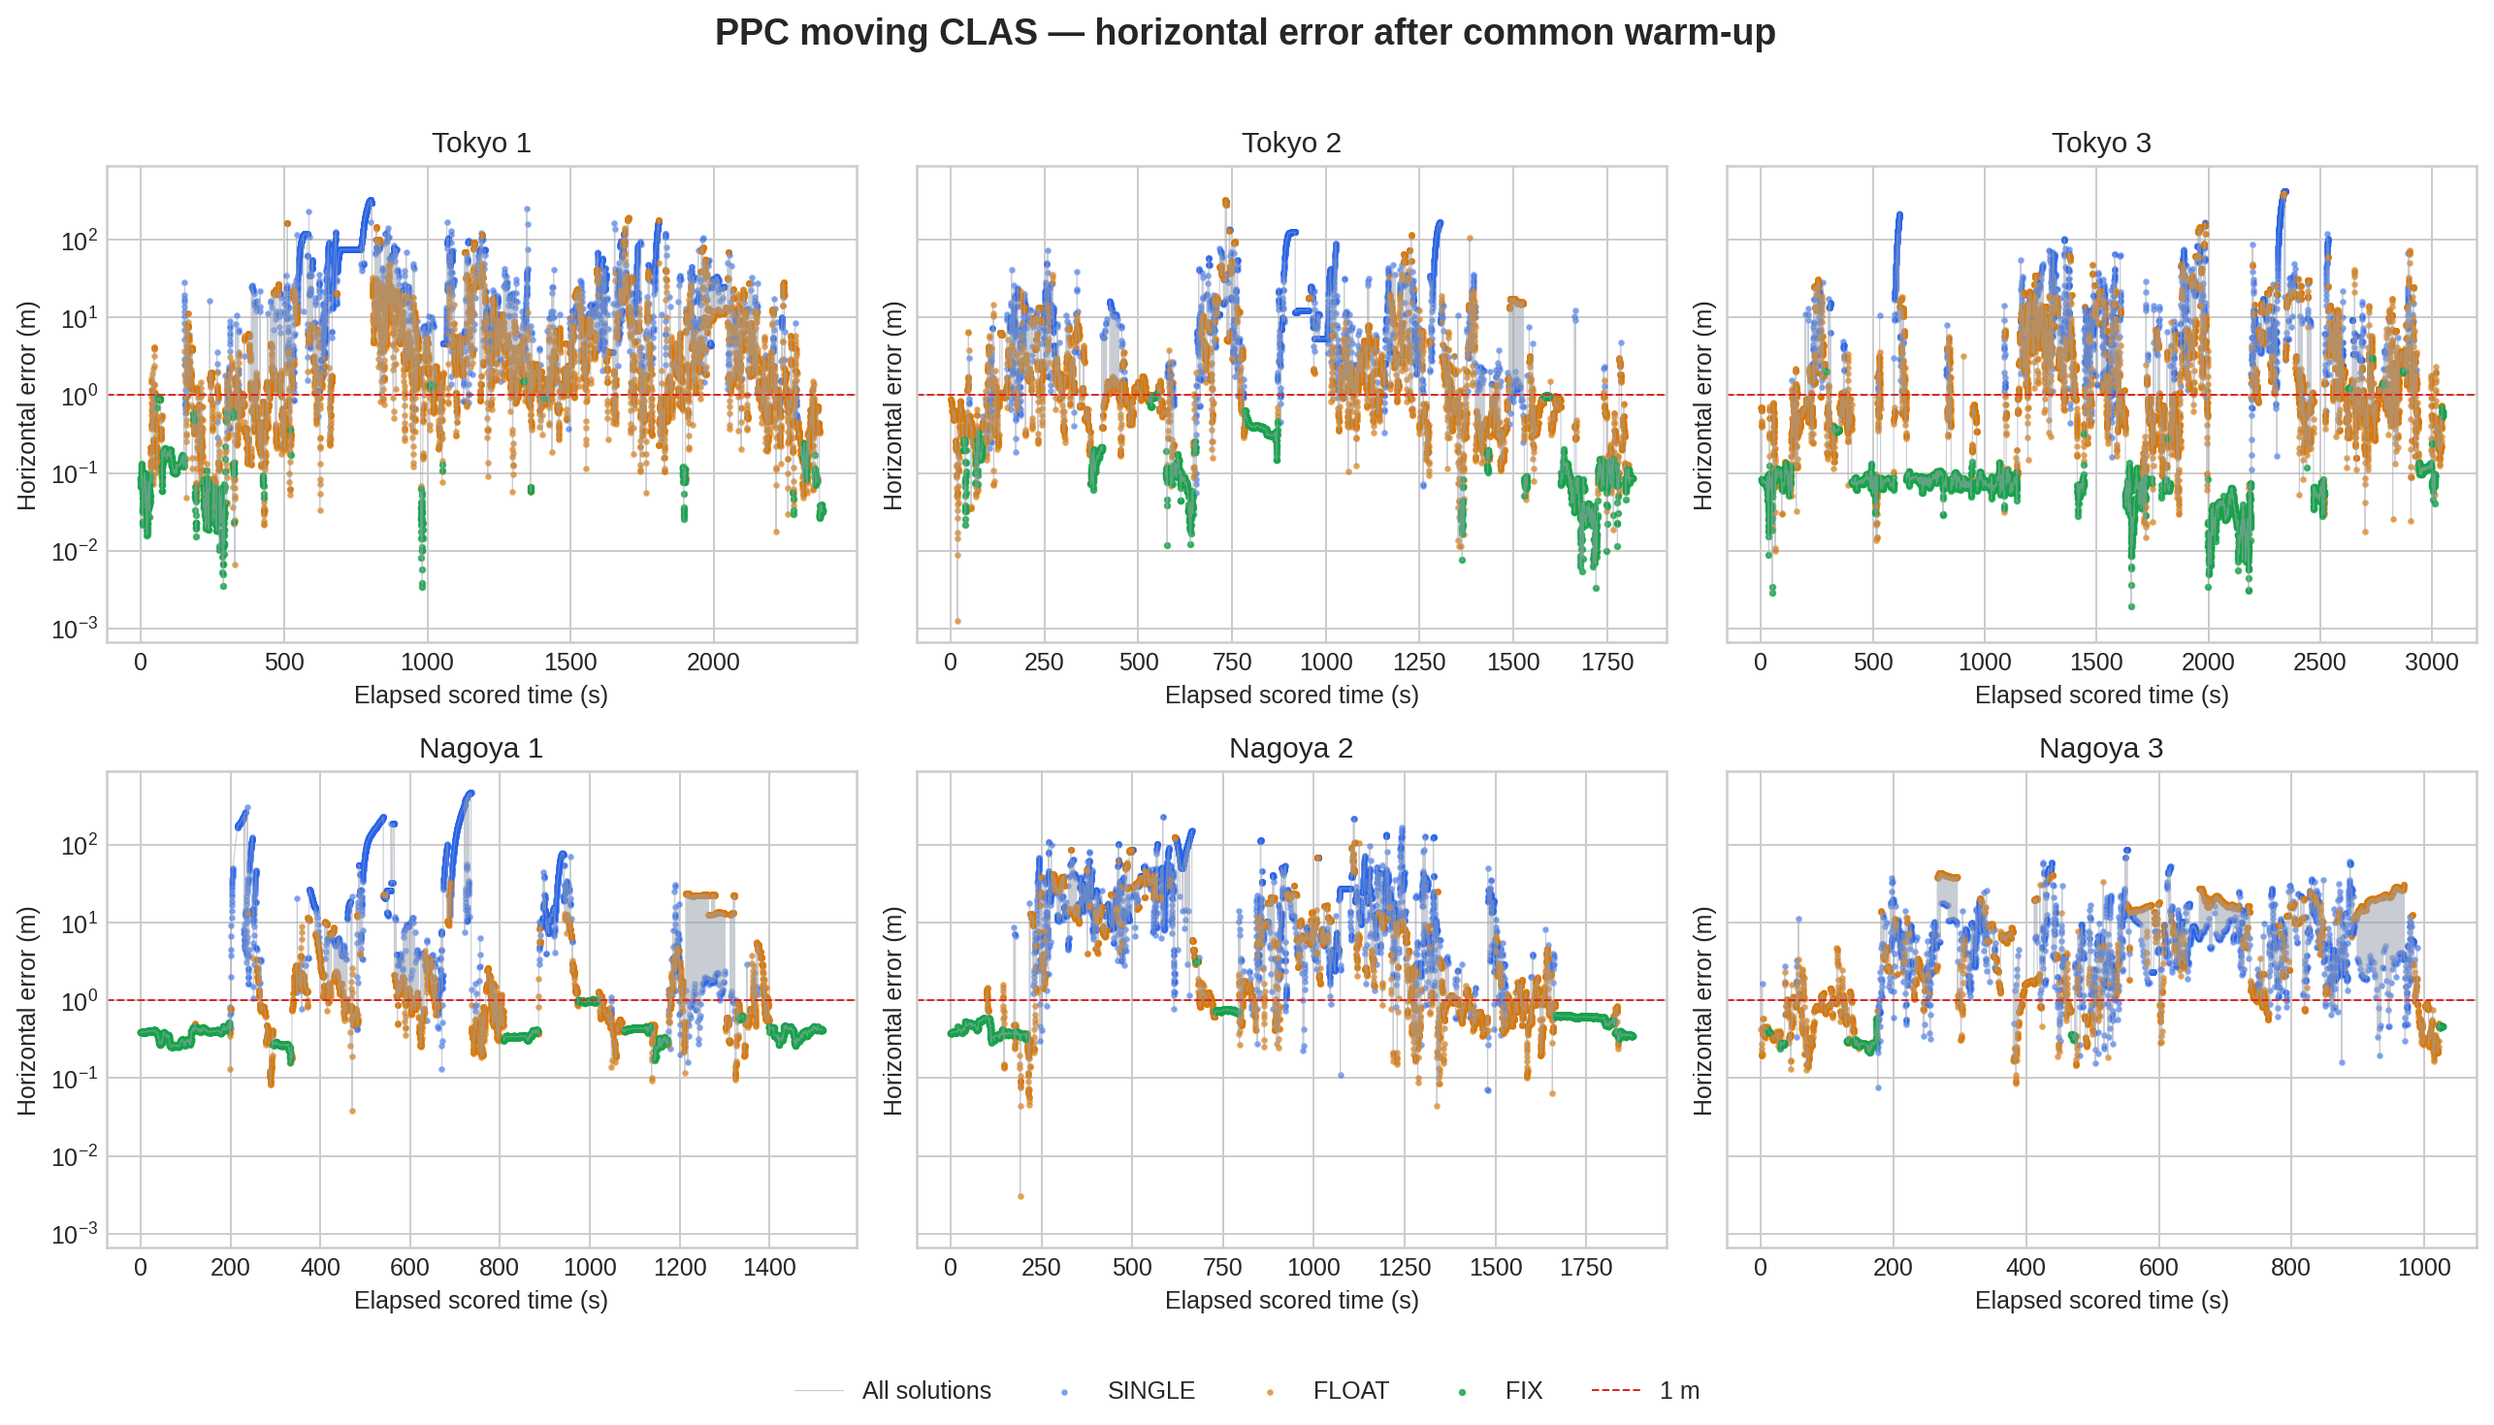
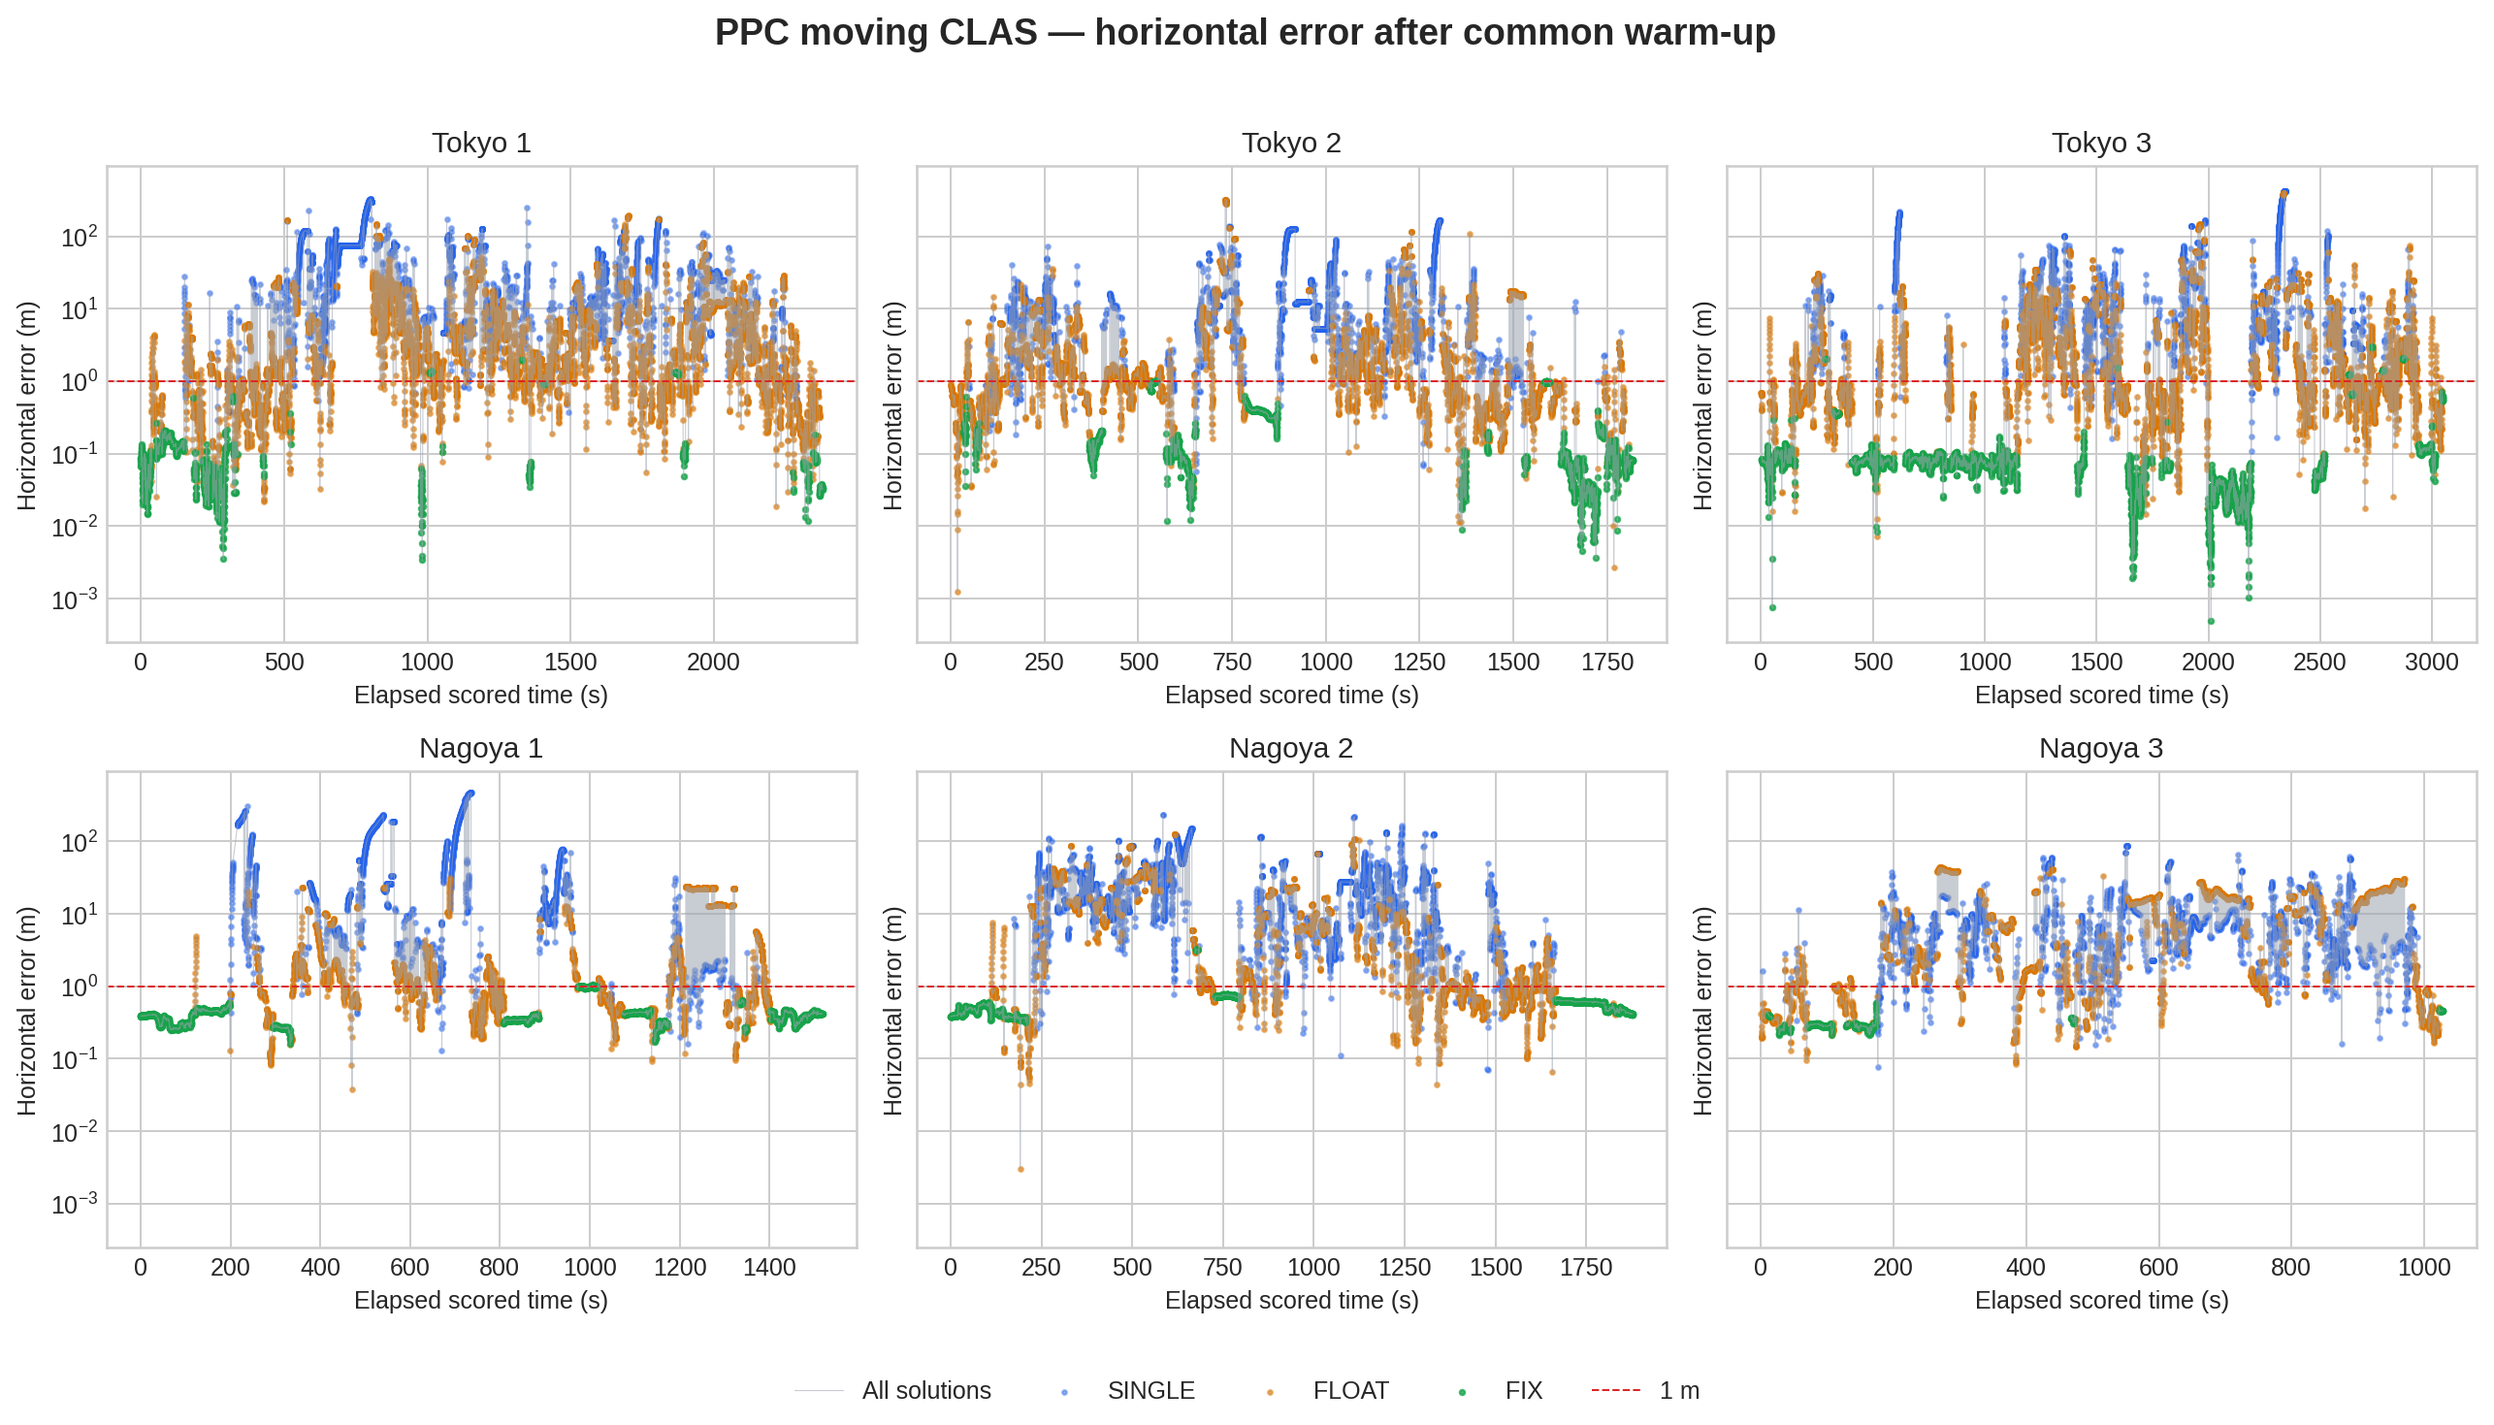
Refresh six-run CLAS benchmark after outage-counter fix (#351)
Aggregate FIX rate rises 24.110% -> 24.852% (0.377 m FIX RMS2D) after the
per-satellite outage-counter parity fix stops false outage flags/float
wipes. Nagoya 3 sees the largest gain, 4.865% -> 8.776%, now above its
6.3% MRTKLIB target (five of six runs now beat target; Tokyo 2 stays
narrowly below at 21.507% vs 21.7%). The 19-epoch >3m Nagoya 2 burst is
unchanged (pre-existing, unaffected by #351). Regenerated from
/media/sasaki/aiueo/rtklib_v2_ws_output/clas_outage_fix_sixrun/.

Claude-Session: https://claude.ai/code/session_01EXeVZLkt6NF26a38wbw2CN

diff --git a/README.md b/README.md
@@ -22,7 +22,7 @@ handling without an external RTKLIB runtime.
 |---|---|---|
 | RTK | PPC Tokyo/Nagoya vs RTKLIB `demo5` | +17.0 pp positioning, +28.1 pp official score, -11.96 m P95 H delta |
 | GNSS/IMU FGO | PPC Tokyo vs `tightly-coupled-gnss-imu-fgo` | Higher <50 cm fraction (avg +5.3 pp) and fix-rate (avg +7.9 pp) on all 3 runs; fixed-only RMS also wins 2 of 3 runs |
-| CLAS PPP | Six PPC Tokyo/Nagoya runs vs MRTKLIB CLAS | 24.110% aggregate FIX, 0.370 m FIX RMS2D (lower than MRTKLIB on all six runs), 36.446 m all-solution RMS2D across 58,258 scored epochs; 19 FIX epochs (0.03%) exceed 3 m, all in one pre-existing 4 s Nagoya 2 burst |
+| CLAS PPP | Six PPC Tokyo/Nagoya runs vs MRTKLIB CLAS | 24.851% aggregate FIX, 0.377 m FIX RMS2D (lower than MRTKLIB on all six runs), 36.523 m all-solution RMS2D across 58,259 scored epochs; 19 FIX epochs (0.03%) exceed 3 m, all in one pre-existing 4 s Nagoya 2 burst |
 | Urban RTK | UrbanNav Tokyo Odaiba vs RTKLIB `demo5` | More fixes, lower Hp95/Vp95; `--preset odaiba` closes Hmed |
 | SPP | PPC SPP adaptive robust + policy gate | No P95 regression with <=1 pp positioning drop |
 
@@ -250,18 +250,19 @@ and defines TTFF as the first run of at least 30 consecutive FIX epochs.
 MRTKLIB columns are the published v0.4.2 results from the
 [CLAS benchmark article](https://zenn.dev/hatognss/articles/7a54dd82606faf).
 The native results below are the complete-run outputs after the
-hold-continuation carve-out landed in #349; each run has 100% interval
-coverage and at least 99.92% epoch coverage.
+hold-continuation carve-out landed in #349 and the outage-counter parity
+fix landed in #351; each run has 100% interval coverage and at least
+99.92% epoch coverage.
 
 | Run | libgnss++ FIX | MRTKLIB FIX | FIX RMS2D* | MRTKLIB RMS2D† | All RMS2D* | FLOAT RMS2D* | SINGLE RMS2D* | max FIX* | >3 m FIX* |
 |---|---:|---:|---:|---:|---:|---:|---:|---:|---:|
-| Tokyo 1 | **9.735%** | 4.900% | **0.306 m** | 0.747 m | 41.661 m | 16.645 m | 79.925 m | 1.545 m | 0 |
-| Tokyo 2 | 20.891% | **21.700%** | **0.326 m** | 0.514 m | 25.877 m | 18.159 m | 45.239 m | 1.013 m | 0 |
-| Tokyo 3 | **37.623%** | 7.400% | **0.185 m** | 0.801 m | 35.246 m | 19.747 m | 88.489 m | 2.986 m | 0 |
-| Nagoya 1 | **36.724%** | 17.000% | **0.444 m** | 1.105 m | 57.154 m | 7.885 m | 119.031 m | 1.049 m | 0 |
-| Nagoya 2 | **23.863%** | 23.400% | **0.614 m** | 1.119 m | 25.706 m | 16.352 m | 40.178 m | 3.200 m | 19 |
-| Nagoya 3 | 4.865% | **6.300%** | **0.317 m** | 0.318 m | 13.550 m | 13.748 m | 14.102 m | 0.591 m | 0 |
-| **Six-run aggregate** | **24.110%** | — | **0.370 m** | — | **36.446 m** | **16.800 m** | **70.182 m** | **3.200 m** | **19** |
+| Tokyo 1 | **10.704%** | 4.900% | **0.352 m** | 0.747 m | 41.862 m | 16.800 m | 80.343 m | 1.961 m | 0 |
+| Tokyo 2 | 21.507% | **21.700%** | **0.322 m** | 0.514 m | 25.882 m | 18.287 m | 45.148 m | 1.013 m | 0 |
+| Tokyo 3 | **37.951%** | 7.400% | **0.192 m** | 0.801 m | 35.276 m | 19.531 m | 88.519 m | 2.986 m | 0 |
+| Nagoya 1 | **36.737%** | 17.000% | **0.450 m** | 1.105 m | 57.163 m | 7.948 m | 119.111 m | 1.043 m | 0 |
+| Nagoya 2 | **23.959%** | 23.400% | **0.625 m** | 1.119 m | 25.829 m | 16.230 m | 40.405 m | 3.200 m | 19 |
+| Nagoya 3 | **8.776%** | 6.300% | **0.304 m** | 0.318 m | 13.724 m | 14.360 m | 14.380 m | 0.587 m | 0 |
+| **Six-run aggregate** | **24.851%** | — | **0.377 m** | — | **36.523 m** | **16.843 m** | **70.337 m** | **3.200 m** | **19** |
 
 \* libgnss++ precision uses the raw PPC reference point (already
 antenna-positioned; no lever-arm transform is applied — an earlier revision
@@ -274,24 +275,24 @@ RMS2D is now lower than MRTKLIB's on all six runs (bolded above).
 
 ![PPC six-run moving CLAS metric comparison](docs/ppc_clas_full_comparison.png)
 
-Across 58,258 scored epochs, native CLAS produced 14,046 FIX epochs. A finite
+Across 58,259 scored epochs, native CLAS produced 14,478 FIX epochs. A finite
 SPP candidate rejected by the chi-square/redundancy validation still remains
 excluded from ordinary filter admission, cold starts, and AR. For catastrophic
 FLOAT/SPP disagreement above 250 m only, it can continue the counted MRTKLIB
 `maxdiffp` recovery path. On Tokyo 2 this moves the bad-seed recovery from TOW
 177750.0 to 177747.4 (311.6 m to 5.4 m), 0.8 s before the MRTKLIB recovery at
-177748.2. The six-run all-solution RMS2D is 36.446 m; FLOAT and SINGLE RMS2D are
-16.800 m and 70.182 m respectively.
+177748.2. The six-run all-solution RMS2D is 36.523 m; FLOAT and SINGLE RMS2D are
+16.843 m and 70.337 m respectively.
 
-Of the 14,046 FIX epochs, 19 (0.03%) exceed 3 m horizontal error; all 19 fall
+Of the 14,478 FIX epochs, 19 (0.03%) exceed 3 m horizontal error; all 19 fall
 in a single contiguous 4-second burst on Nagoya 2 (TOW 556406.4–556410.4,
 errors 3.17–3.20 m, max 3.200 m), inside the known seed-geometry `maxdiffp`
 reset zone. The identical 19 epochs, at matching TOWs and errors, are present
 in the pre-#349 baseline run, so this is a pre-existing wrong-fix tail, not a
-regression from the hold-continuation carve-out — it was previously invisible
-because the lever-arm double-correction happened to shift it under the 3 m
-line (old Nagoya 2 max was 2.486 m). The other five runs still have zero FIX
-epochs above 3 m.
+regression from the hold-continuation carve-out or the #351 outage-counter
+parity fix — it was previously invisible because the lever-arm
+double-correction happened to shift it under the 3 m line (old Nagoya 2 max
+was 2.486 m). The other five runs still have zero FIX epochs above 3 m.
 
 | Complete trajectories | Horizontal error and FIX epochs |
 |---|---|

diff --git a/docs/ppc_clas_validation.md b/docs/ppc_clas_validation.md
@@ -5,29 +5,43 @@ Benchmark source: [GNSS測位エコシステムの統合を目指して - モダ
 ## Current verdict
 
 The full six-run PPC moving-data validation is complete. After the
-hold-continuation carve-out landed in #349, across 58,258 scored epochs
-LibGNSS++ produced 14,046 FIX epochs (24.110%) with 0.370 m aggregate FIX
-RMS2D and 0.349 m FIX p68 (up from the prior 23.645% / 0.593 m aggregate).
-Every run covers 100% of the reference interval and at least 99.95% of
-observation epochs.
+hold-continuation carve-out landed in #349 and the outage-counter parity fix
+landed in #351, across 58,259 scored epochs LibGNSS++ produced 14,478 FIX
+epochs (24.851%) with 0.377 m aggregate FIX RMS2D and 0.349 m FIX p68 (up
+from the pre-#351 24.110% / 0.370 m aggregate, and the earlier 23.645% /
+0.593 m aggregate before #349). The outage-counter fix clears a
+per-satellite outage counter from that epoch's raw observation validity
+(matching MRTKLIB's reset), instead of leaving it reachable only through a
+narrower DD/measurement-row path; previously a satellite that briefly
+dropped out of that path for one epoch could park above the outage
+threshold indefinitely and keep re-triggering false "outage_sat" flags and
+float-state wipes even while still being observed and corrected. The effect
+is largest on Nagoya 3, where it was breaking healthy fix holds most often
+(FIX rate nearly doubles, 4.865% to 8.776%), with smaller gains on the other
+five runs. Every run covers 100% of the reference interval and at
+least 99.95% of observation epochs.
 
-Of the 14,046 FIX epochs, 19 (0.03%) exceed 3 m horizontal error. All 19 sit
+Of the 14,478 FIX epochs, 19 (0.03%) exceed 3 m horizontal error. All 19 sit
 in a single contiguous 4-second burst on Nagoya 2 (TOW 556406.4–556410.4,
 errors 3.17–3.20 m, max 3.200 m), inside the known seed-geometry `maxdiffp`
 reset zone. The identical 19 epochs, at matching TOWs and errors to 0.01 m,
-are present in the pre-#349 baseline run (`clas_current_develop_20260723`),
-so this is a pre-existing wrong-fix tail rather than a regression from the
-hold-continuation carve-out. The other five runs have zero FIX epochs above
-3 m. See "Reference-point methodology" below for why this tail was not
-visible in earlier tables.
+are present in the pre-#349 baseline run (`clas_current_develop_20260723`)
+and are unchanged by the #351 outage-counter fix, so this is a pre-existing
+wrong-fix tail rather than a regression from either change. The other five
+runs have zero FIX epochs above 3 m. See "Reference-point methodology" below
+for why this tail was not visible in earlier tables.
 
 The same gate now reports non-FIX quality explicitly. Aggregate all-solution
-RMS2D is 36.446 m, FLOAT RMS2D is 16.800 m, and SINGLE RMS2D is 70.182 m.
+RMS2D is 36.523 m, FLOAT RMS2D is 16.843 m, and SINGLE RMS2D is 70.337 m.
 
-Compared with the published MRTKLIB v0.4.2 results, native FIX rate is higher
-on Tokyo 1, Tokyo 3, Nagoya 1, and Nagoya 2; it remains lower on Tokyo 2 and
-Nagoya 3. Native FIX RMS2D is now lower than MRTKLIB's on all six runs. The
-precision comparison is directly comparable, not merely contextual: both
+Compared with the published MRTKLIB v0.4.2 results, native FIX rate is now
+higher on five of the six runs — Tokyo 1, Tokyo 3, Nagoya 1, Nagoya 2, and
+Nagoya 3, which the outage-counter fix pushes from 4.865% (below its 6.3%
+target) to 8.776% (above it). Tokyo 2 remains the sole run below target,
+and only narrowly: 21.507% native vs. 21.7% MRTKLIB, within 0.2 percentage
+points. Native FIX RMS2D is now lower than MRTKLIB's on all six runs,
+including Nagoya 3 (0.304 m vs. 0.318 m), which had been the closest margin.
+The precision comparison is directly comparable, not merely contextual: both
 sides now score against the same raw (already antenna-positioned) PPC
 reference point, with no lever-arm transform applied on either side.
 

diff --git a/docs/ppc_clas_full_table.md b/docs/ppc_clas_full_table.md
@@ -1,12 +1,12 @@
 | Run | Coverage (time / epochs) | libgnss++ FIX | MRTKLIB FIX | libgnss++ FIX RMS2D* | MRTKLIB RMS2D† | libgnss++ FIX p68* | MRTKLIB p68† | All RMS2D* | FLOAT RMS2D* | SINGLE RMS2D* | libgnss++ max FIX* | >3 m FIX* | libgnss++ TTFF | MRTKLIB TTFF |
 |---|---:|---:|---:|---:|---:|---:|---:|---:|---:|---:|---:|---:|---:|---:|
-| Tokyo 1 | 100.000% / 99.966% | 9.735% | 4.900% | 0.306 m | 0.747 m | 0.127 m | 0.244 m | 41.661 m | 16.645 m | 79.925 m | 1.545 m | 0 | 0.000 s | 15.000 s |
-| Tokyo 2 | 100.000% / 99.989% | 20.891% | 21.700% | 0.326 m | 0.514 m | 0.209 m | 0.120 m | 25.877 m | 18.159 m | 45.239 m | 1.013 m | 0 | 34.000 s | 368.000 s |
-| Tokyo 3 | 100.000% / 99.980% | 37.623% | 7.400% | 0.185 m | 0.801 m | 0.082 m | 0.075 m | 35.246 m | 19.747 m | 88.489 m | 2.986 m | 0 | 4.000 s | 28.000 s |
-| Nagoya 1 | 100.000% / 99.974% | 36.724% | 17.000% | 0.444 m | 1.105 m | 0.420 m | 0.402 m | 57.154 m | 7.885 m | 119.031 m | 1.049 m | 0 | 0.000 s | 0.000 s |
-| Nagoya 2 | 100.000% / 99.958% | 23.863% | 23.400% | 0.614 m | 1.119 m | 0.612 m | 0.461 m | 25.706 m | 16.352 m | 40.178 m | 3.200 m | 19 | 0.000 s | 0.000 s |
-| Nagoya 3 | 100.000% / 99.962% | 4.865% | 6.300% | 0.317 m | 0.318 m | 0.291 m | 0.339 m | 13.550 m | 13.748 m | 14.102 m | 0.591 m | 0 | 29.200 s | 9.000 s |
-| **Six-run aggregate** | — | **24.110%** | — | **0.370 m** | — | **0.349 m** | — | **36.446 m** | **16.800 m** | **70.182 m** | **3.200 m** | **19** | — | — |
+| Tokyo 1 | 100.000% / 99.975% | 10.704% | 4.900% | 0.352 m | 0.747 m | 0.126 m | 0.244 m | 41.862 m | 16.800 m | 80.343 m | 1.961 m | 0 | 0.000 s | 15.000 s |
+| Tokyo 2 | 100.000% / 99.989% | 21.507% | 21.700% | 0.322 m | 0.514 m | 0.205 m | 0.120 m | 25.882 m | 18.287 m | 45.148 m | 1.013 m | 0 | 66.000 s | 368.000 s |
+| Tokyo 3 | 100.000% / 99.980% | 37.951% | 7.400% | 0.192 m | 0.801 m | 0.082 m | 0.075 m | 35.276 m | 19.531 m | 88.519 m | 2.986 m | 0 | 4.000 s | 28.000 s |
+| Nagoya 1 | 100.000% / 99.974% | 36.737% | 17.000% | 0.450 m | 1.105 m | 0.434 m | 0.402 m | 57.163 m | 7.948 m | 119.111 m | 1.043 m | 0 | 0.000 s | 0.000 s |
+| Nagoya 2 | 100.000% / 99.958% | 23.959% | 23.400% | 0.625 m | 1.119 m | 0.612 m | 0.461 m | 25.829 m | 16.230 m | 40.405 m | 3.200 m | 19 | 0.000 s | 0.000 s |
+| Nagoya 3 | 100.000% / 99.962% | 8.776% | 6.300% | 0.304 m | 0.318 m | 0.296 m | 0.339 m | 13.724 m | 14.360 m | 14.380 m | 0.587 m | 0 | 27.000 s | 9.000 s |
+| **Six-run aggregate** | — | **24.851%** | — | **0.377 m** | — | **0.349 m** | — | **36.523 m** | **16.843 m** | **70.337 m** | **3.200 m** | **19** | — | — |
 
 \* libgnss++ precision uses the raw PPC reference point (already antenna-positioned; no lever-arm transform applied).
 † Published MRTKLIB v0.4.2 precision also uses the raw PPC reference point; precision columns use the same reference convention and are directly comparable.
